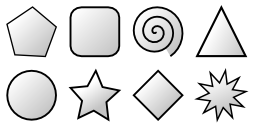
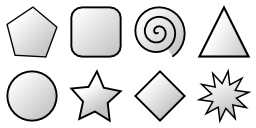
Modifica las parejas
Las parejas ahora se representan con formas y colores.
También se modifican las texturas.

diff --git a/core/src/memotest/land/Table.java b/core/src/memotest/land/Table.java
@@ -1,6 +1,5 @@
 package memotest.land;
 
-import com.badlogic.gdx.graphics.Color;
 import com.badlogic.gdx.math.MathUtils;
 import com.badlogic.gdx.scenes.scene2d.Group;
 
@@ -10,23 +9,25 @@ public class Table extends Group {
 	private final int width, height, pairs;
 	private Cell[][] cells;
 	private Cell[] selected;
-	private float time = 1, timer;
+	private final float time = 1.25f;
+	private float timer;
 	
 	public Table(int width, int height, AssetLoader loader) {
 		if ((width * height) % 2 != 0)
 			throw new IllegalArgumentException("You can't use this width and height");
+		Shape.init(loader);
 		setBounds(0, 0, width * 64, height * 64);
 		cells = new Cell[width][height];
 		selected = new Cell[2];
 		this.width = width;
 		this.height = height;
 		pairs = width * height / 2;
-		Color[] pairs = setPairs();
+		Shape[] pairs = setPairs();
 		int i = 0;
 		for (int x = 0; x < width; x++) {
 			for (int y = 0; y < height; y++) {
 				cells[x][y] = new Cell(x, y, loader);
-				cells[x][y].setColor(pairs[i++]);
+				cells[x][y].setShape(pairs[i++]);
 				addActor(cells[x][y]);
 			}
 		}
@@ -39,7 +40,8 @@ public class Table extends Group {
 		else if (timer >= 0)
 			timer -= delta;
 		else if (timer <= 0) {
-			if (selected[0].getColor().equals(selected[1].getColor())) {
+			if (selected[0].getShape().getColor() == selected[1].getShape().getColor()
+					&& selected[0].getShape().getShape() == selected[1].getShape().getShape()) {
 				selected[0].setRemoved(true);
 				selected[1].setRemoved(true);
 			} else {
@@ -51,31 +53,34 @@ public class Table extends Group {
 		}
 	}
 	
-	private Color[] setPairs() {
-		// TODO: change this
-		Color[] colors = new Color[pairs * 2];
+	private Shape[] setPairs() {
+		Shape[] shapes = new Shape[pairs * 2];
 		Cluster[] clusters = new Cluster[pairs];
 		for (int i = 0; i < pairs; i++) {
+			int color = i / Shape.Shapes.values().length;
+			if (color >= Shape.Colors.values().length)
+				throw new IllegalArgumentException("The amount of pairs is too big");
+			int shape = i % Shape.Shapes.values().length;
 			clusters[i] = new Cluster(
-					new Color(MathUtils.random(), MathUtils.random(), MathUtils.random(), 1));
+					new Shape(Shape.Colors.values()[color], Shape.Shapes.values()[shape]));
 		}
 		for (int i = 0; i < pairs * 2; i++) {
 			int index;
 			do {
 				index = MathUtils.random(pairs - 1);
 			} while (clusters[index].num == 0);
-			colors[i] = clusters[index].color;
+			shapes[i] = clusters[index].shape;
 			clusters[index].num--;
 		}
-		return colors;
+		return shapes;
 	}
 	
 	public void reset() {
-		Color[] pairs = setPairs();
+		Shape[] pairs = setPairs();
 		int i = 0;
 		for (int x = 0; x < width; x++) {
 			for (int y = 0; y < height; y++) {
-				cells[x][y].setColor(pairs[i++]);
+				cells[x][y].setShape(pairs[i++]);
 			}
 		}
 	}
@@ -102,11 +107,11 @@ public class Table extends Group {
 	}
 	
 	private class Cluster {
-		private Color color;
+		private Shape shape;
 		private int num;
 		
-		private Cluster(Color color) {
-			this.color = color;
+		private Cluster(Shape shape) {
+			this.shape = shape;
 			num = 2;
 		}
 	}

diff --git a/core/src/memotest/land/Cell.java b/core/src/memotest/land/Cell.java
@@ -1,19 +1,22 @@
 package memotest.land;
 
-import com.badlogic.gdx.graphics.Color;
 import com.badlogic.gdx.graphics.Texture;
 import com.badlogic.gdx.graphics.g2d.Batch;
+import com.badlogic.gdx.graphics.g2d.TextureRegion;
 import com.badlogic.gdx.scenes.scene2d.Actor;
 
 import memotest.utils.assets.AssetLoader;
 
 public class Cell extends Actor {
-	private Texture cell, back, filter;
+	private TextureRegion cell, back;
+	private Texture filter;
 	private boolean selected, removed;
+	private Shape shape;
 	
 	public Cell(int x, int y, AssetLoader loader) {
-		cell = loader.get("Cell", Texture.class);
-		back = loader.get("BackCell", Texture.class);
+		Texture cellRegion = loader.get("CellRegion", Texture.class);
+		cell = new TextureRegion(cellRegion, 64, 0, 64, 64);
+		back = new TextureRegion(cellRegion, 0, 0, 64, 64);
 		filter = loader.get("Filter", Texture.class);
 		setBounds(x * 64, y * 64, 64, 64);
 	}
@@ -21,15 +24,21 @@ public class Cell extends Actor {
 	@Override
 	public void draw(Batch batch, float parentAlpha) {
 		if (selected) {
-			batch.setColor(getColor());
 			batch.draw(cell, getX(), getY(), getWidth(), getHeight());
-			if (removed) {
-				batch.setColor(Color.BLACK);
+			if (shape != null)
+				shape.draw(getX(), getY(), batch);
+			if (removed)
 				batch.draw(filter, getX(), getY(), getWidth(), getHeight());
-			}
-			batch.setColor(Color.WHITE);
 		} else
 			batch.draw(back, getX(), getY(), getWidth(), getHeight());
+	}
+	
+	public void setShape(Shape shape) {
+		this.shape = shape;
+	}
+	
+	public Shape getShape() {
+		return shape;
 	}
 	
 	public void setSelected(boolean selected) {

diff --git a/core/src/memotest/land/Shape.java b/core/src/memotest/land/Shape.java
@@ -1,0 +1,58 @@
+package memotest.land;
+
+import com.badlogic.gdx.graphics.Color;
+import com.badlogic.gdx.graphics.Texture;
+import com.badlogic.gdx.graphics.g2d.Batch;
+import com.badlogic.gdx.graphics.g2d.TextureRegion;
+
+import memotest.utils.assets.AssetLoader;
+
+public class Shape {
+	private static Texture shapesTex;
+	private Colors color;
+	private Shapes shape;
+	
+	public static void init(AssetLoader loader) {
+		shapesTex = loader.get("Shapes", Texture.class);
+	}
+	
+	public Shape(Colors color, Shapes shape) {
+		this.color = color;
+		this.shape = shape;
+	}
+	
+	public void draw(float x, float y, Batch batch) {
+		batch.setColor(color.color);
+		batch.draw(shape.region, x, y, 64, 64);
+		batch.setColor(Color.WHITE);
+	}
+	
+	public Colors getColor() {
+		return color;
+	}
+	
+	public Shapes getShape() {
+		return shape;
+	}
+	
+	public enum Colors {
+		RED(Color.RED), BLUE(Color.BLUE), GREEN(Color.GREEN), YELLOW(Color.YELLOW);
+		
+		private Color color;
+		
+		Colors(Color color) {
+			this.color = color;
+		}
+	}
+	
+	public enum Shapes {
+		PENTAGON(0, 0), SQUARE(1, 0), SPIRAL(2, 0), TRIANGLE(3, 0), CIRCLE(0, 1), STAR(1,
+				1), DIAMOND(2, 1), EXPLOSION(3, 1);
+				
+		private TextureRegion region;
+		
+		Shapes(int x, int y) {
+			region = new TextureRegion(shapesTex, x * 64, y * 64, 64, 64);
+		}
+	}
+}

diff --git a/core/src/memotest/MemoTest.java b/core/src/memotest/MemoTest.java
@@ -18,9 +18,9 @@ public class MemoTest extends Game {
 	public void create() {
 		loader = new AssetLoader(this);
 		gameScreen = new GameScreen(this);
-		loader.queue("Cell", "TempCell.png", Texture.class)
-				.queue("BackCell", "BackCell.png", Texture.class)
-				.queue("Filter", "CellFilter.png", Texture.class).load(gameScreen);
+		loader.queue("Filter", "cells/cellFilter.png", Texture.class)
+				.queue("CellRegion", "cells/cells.png", Texture.class)
+				.queue("Shapes", "cells/cellImages.png", Texture.class).load(gameScreen);
 	}
 	
 	@Override
